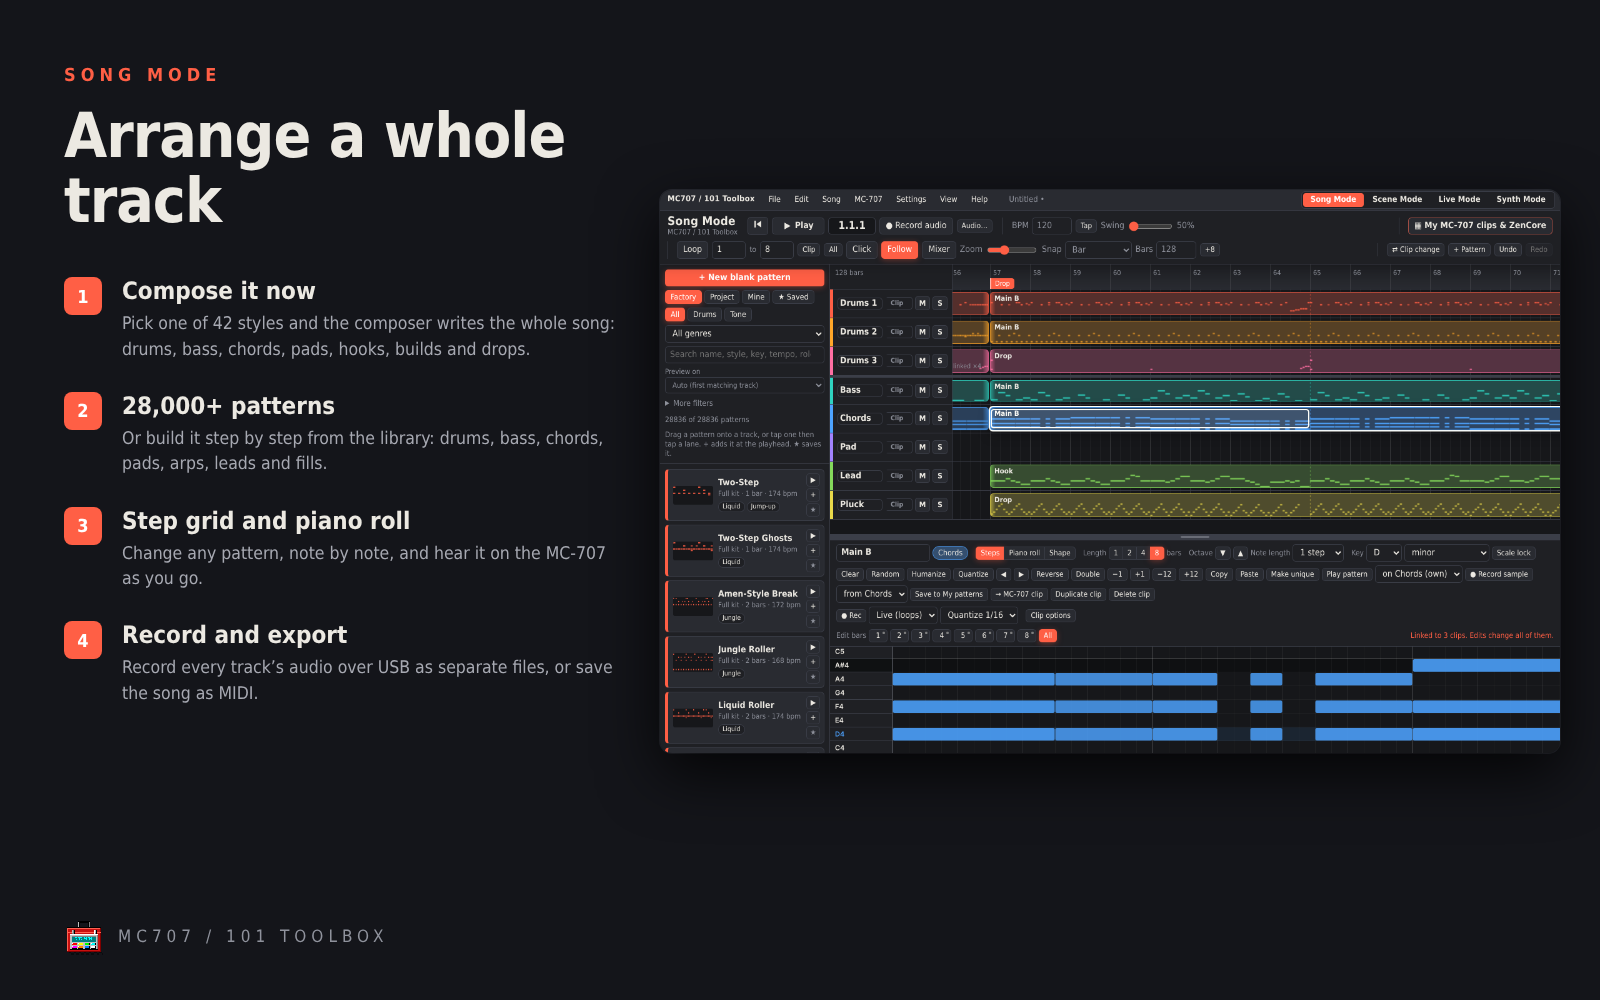
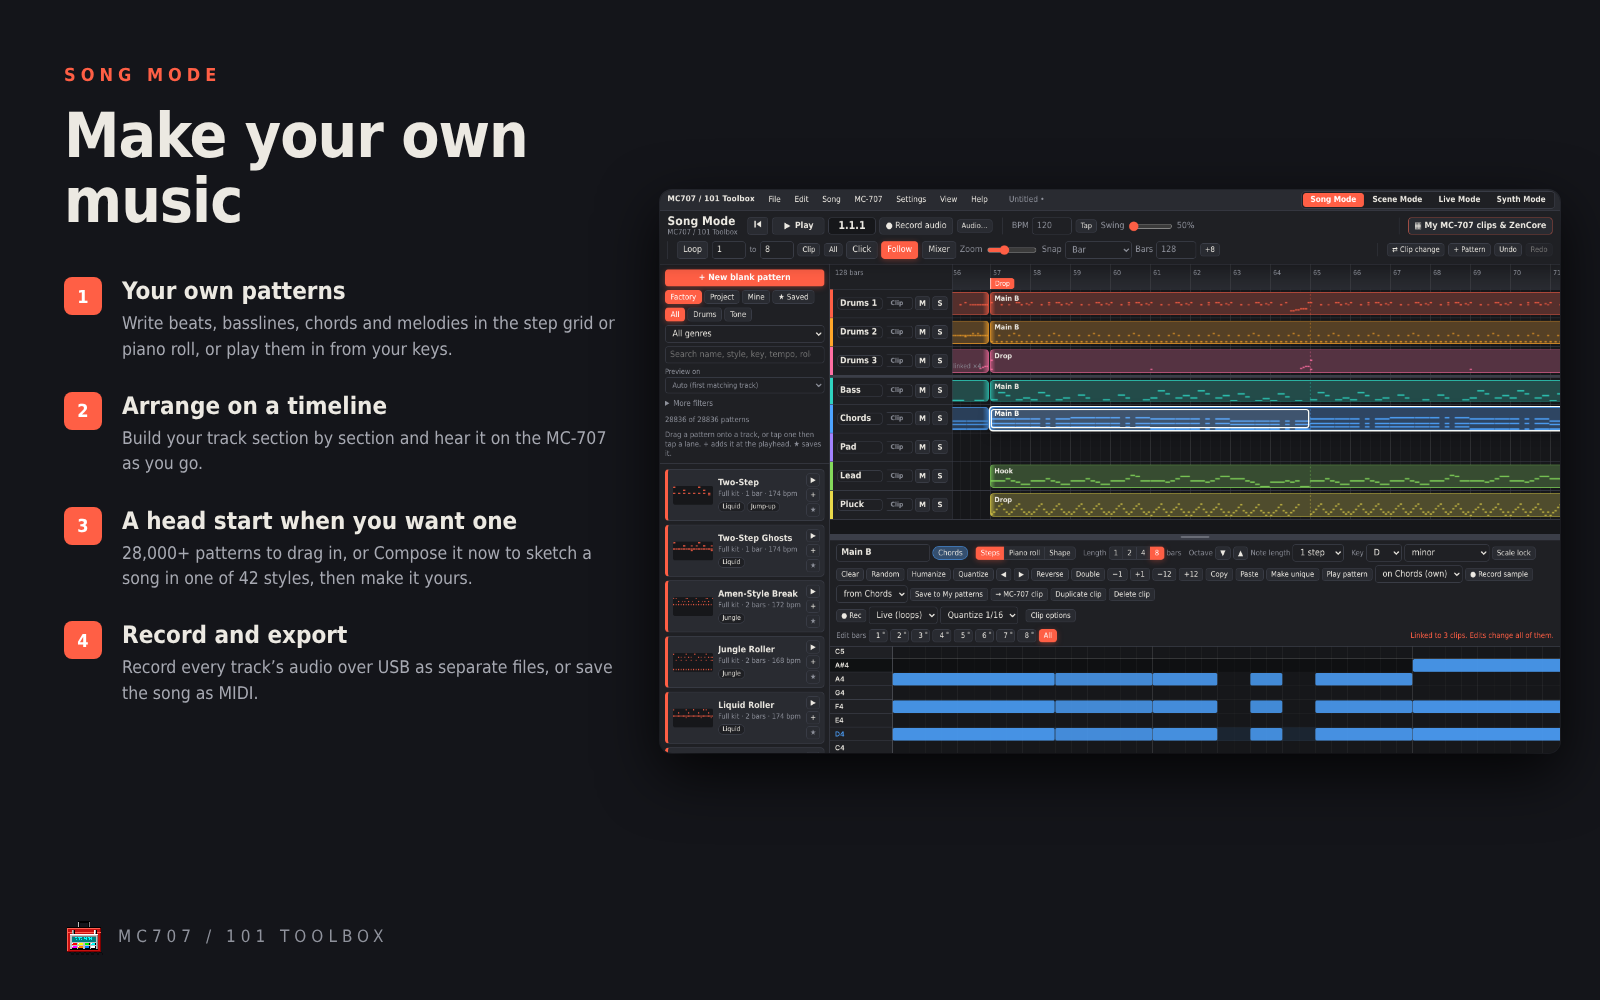
README and pictures: Song Mode is about making your own music
Claude-Session: https://claude.ai/code/session_013JHr4DUtWBdvd7qggkPUu7

Changed region(s): [[0.0625, 0.279, 0.375, 0.589], [0.0312, 0.093, 0.375, 0.248]]

diff --git a/README.md b/README.md
@@ -12,7 +12,7 @@ Write songs, put them on your **Roland MC-707 or MC-101**, play live sets and de
 
 ### Song Mode
 
-Arrange a whole track on a timeline and play it on the MC-707 note for note. The song wizard composes a whole song in one of 42 styles with **Compose it now**, or builds one from over 28,000 patterns (drums, bass, chords, pads, arps, leads, fills and builds); change any of it in the step grid or piano roll, record every track's audio, or export MIDI. [More](#song-mode-1)
+Make your own music and play it on the MC-707 note for note. Write your own patterns in the step grid or piano roll, record them from a keyboard or the MC-707's keys, and arrange them into a whole track on a timeline. Want a head start? Drag in any of over 28,000 patterns (drums, bass, chords, pads, arps, leads, fills and builds), or let the song wizard sketch a song in one of 42 styles with **Compose it now**, then make it yours. Record every track's audio, or export MIDI. [More](#song-mode-1)
 
 ![Song Mode](docs/features/1-song-mode.png)
 
